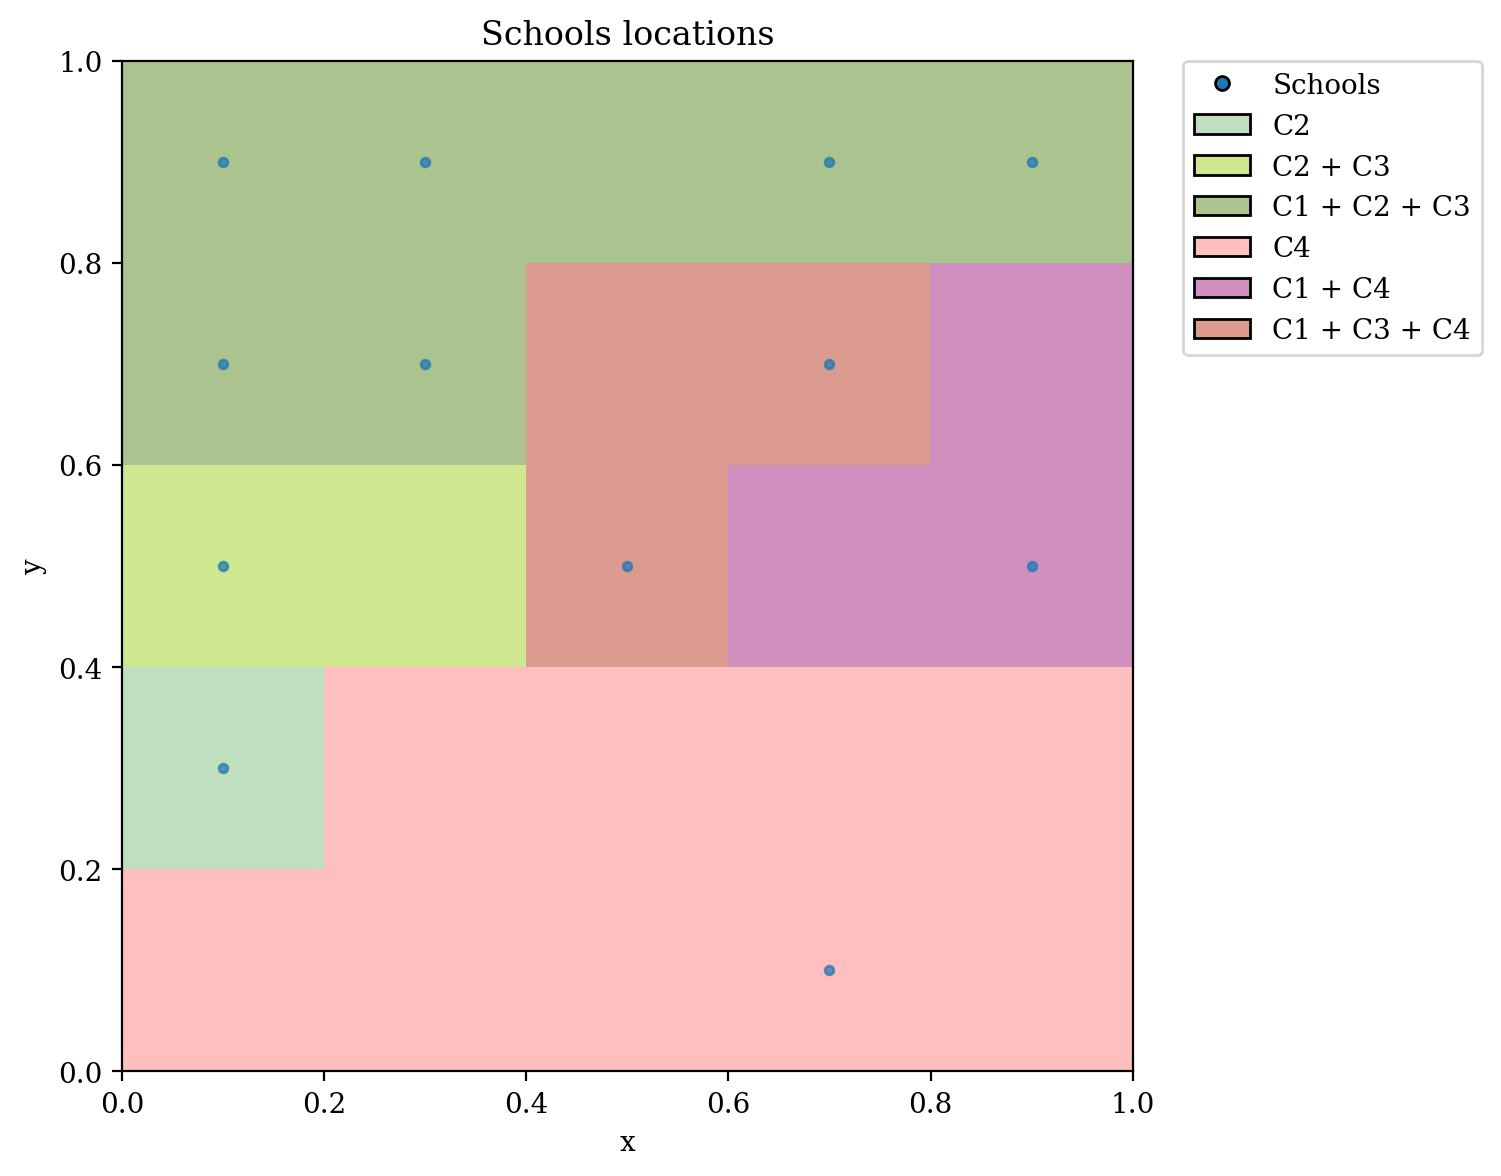
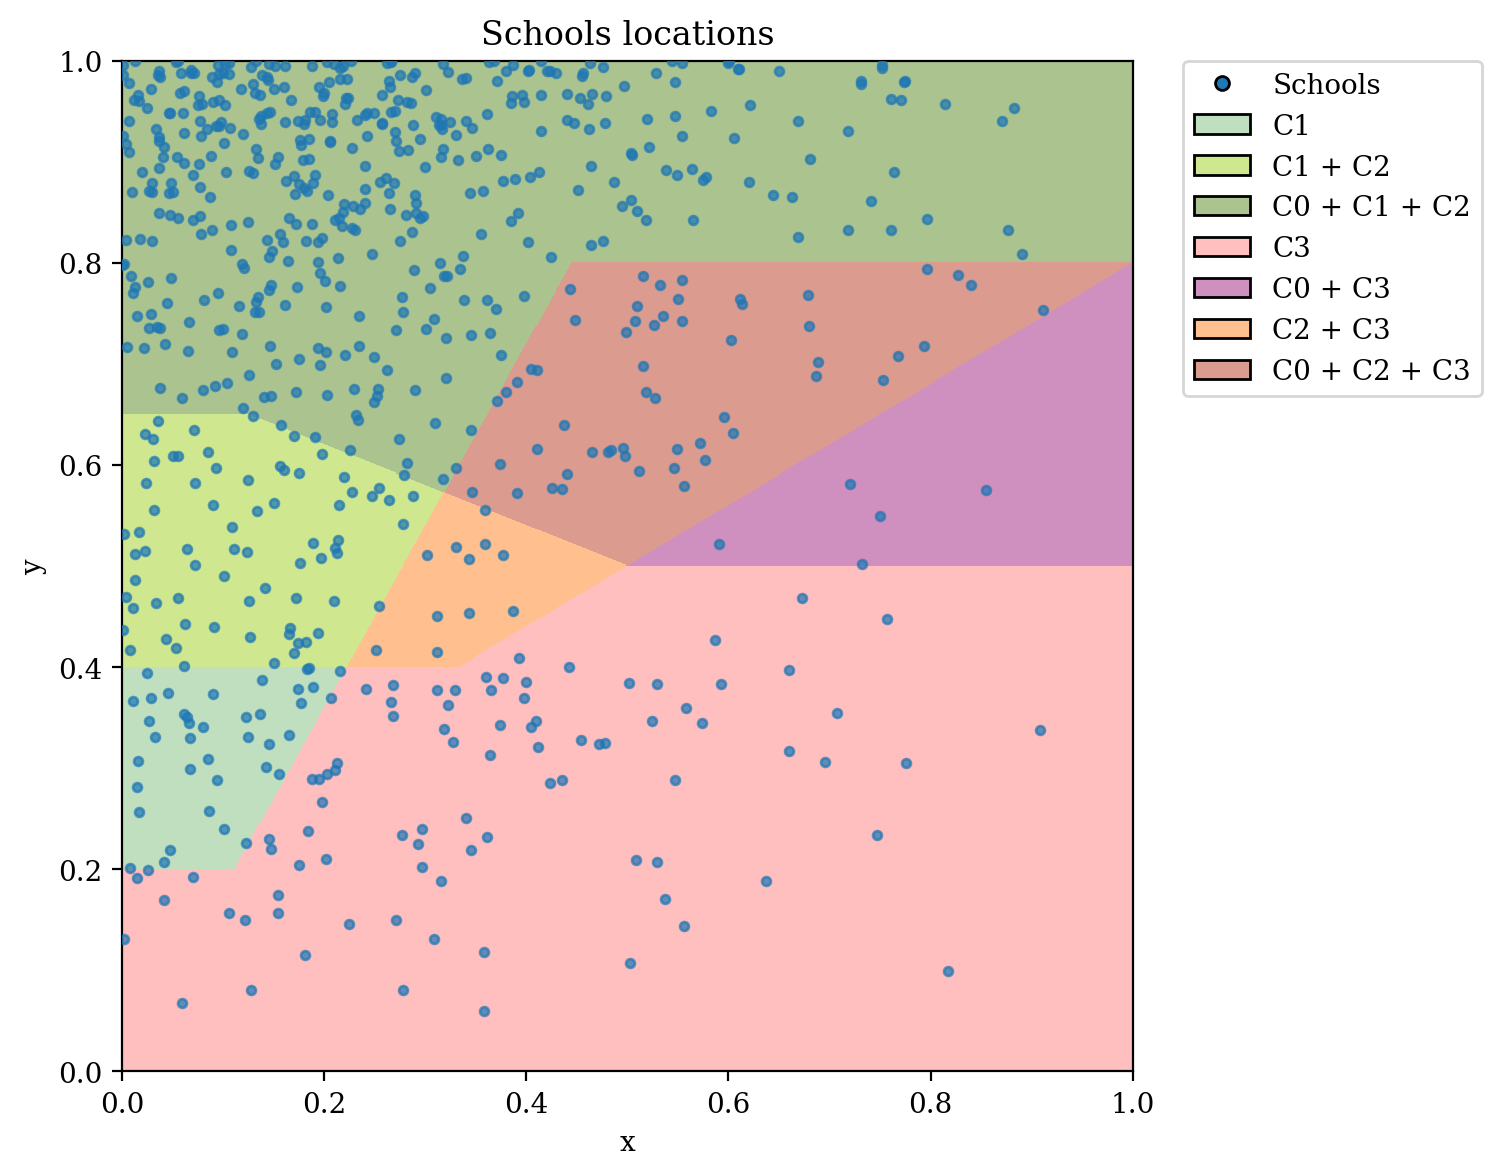
working modal solution

diff --git a/generate-data.py b/generate-data.py
@@ -1,12 +1,14 @@
 import numpy as np
+import csv
 import matplotlib.pyplot as plt
 import matplotlib.colors as mcolors
 from matplotlib.lines import Line2D
 from matplotlib.patches import Patch
+from pyscipopt import Model
 
 bg_rgb = np.array([1.0, 1.0, 1.0])
-schools_count = 12
-grid_size = 5
+schools_count = 709
+grid_size = 1000
 t = np.linspace(0, 1, grid_size)
 X, Y = np.meshgrid(t, t)
 
@@ -14,17 +16,21 @@ f1_grid = Y >= np.clip(0.7 - 0.4 * X, 0.50, 0.65)
 f2_grid = Y >= np.clip(0.0 + 1.8 * X, 0.2, 0.8)
 f3_grid = Y >= np.clip(0.2 + 0.6 * X, 0.4, 1.0)
 f4_grid = Y < np.clip(0.0 + 1.8 * X, 0.2, 0.8)
-firms_ids = ["C1", "C2", "C3", "C4"]
 firms_grids = [f1_grid, f2_grid, f3_grid, f4_grid]
+firms_count = len(firms_grids)
 firms_colors = ["blue", "green", "yellow", "red"]
-firms_cus = [[] for _ in range(len(firms_ids))]
+firms_cus = [[] for _ in range(firms_count)]
 
 # Generate random schools
 rng = np.random.default_rng(42)
-weights2 = np.exp(-0.25 * np.arange(grid_size))
-weights1 = np.exp(0.25 * np.arange(grid_size))
-p1 = weights1 / weights1.sum()
-p2 = weights2 / weights2.sum()
+centers = (np.arange(grid_size) + 0.5) / grid_size
+clip = lambda u: np.clip(u, 1e-9, 1 - 1e-9)
+beta_shape = lambda u, a, b: (clip(u) ** (a - 1.0)) * ((1.0 - clip(u)) ** (b - 1.0))
+gaussian = lambda u, mu, sigma: np.exp(-0.5 * ((u - mu) / sigma) ** 2)
+w1 = 0.8 * beta_shape(centers, 0.7, 2.2) + 0.2 * gaussian(centers, 0.70, 0.15)
+w2 = 0.8 * beta_shape(centers, 2.6, 1.0) + 0.2 * gaussian(centers, 0.85, 0.10)
+p1 = w1[::-1] / w1.sum()
+p2 = w2[::-1] / w2.sum()
 schools_grid = np.zeros((grid_size, grid_size), dtype=np.int32)
 chosen = rng.choice(
     grid_size * grid_size, size=schools_count, replace=False, p=np.outer(p1, p2).ravel()
@@ -38,26 +44,28 @@ for i, grid in enumerate(firms_grids):
     cus_grid |= grid.astype(np.uint8) << i
 cus = np.unique(cus_grid)
 cus = cus[cus > 0]
+cus_count = len(cus)
 cus_labels = np.zeros((int(cus.max()) + 1), dtype=object)
 cus_schools = np.zeros((int(cus.max()) + 1), dtype=object)
 cus_firms = np.zeros((int(cus.max()) + 1), dtype=object)
 cus_rgba = np.zeros((int(cus.max()) + 1, 3), dtype=float)
 cus_rgba[0] = bg_rgb
-for cu in cus:
+for cu_idx, cu in enumerate(cus):
     cu_grid = cus_grid == cu
     matching_schools_ids = schools_grid[cu_grid]
     matching_schools_ids = matching_schools_ids[matching_schools_ids > 0]
-    matching_firms_ids = np.array([i for i in range(len(firms_ids)) if (cu >> i) & 1])
+    matching_firms_ids = np.array([i for i in range(firms_count) if (cu >> i) & 1])
+    print("matching_firms_ids", matching_firms_ids)
     cus_schools[cu] = matching_schools_ids
-    cus_firms[cu] = matching_firms_ids + 1
+    cus_firms[cu] = matching_firms_ids
     for firm_id in matching_firms_ids:
-        firms_cus[firm_id].extend(matching_schools_ids)
+        firms_cus[firm_id].append(cu_idx)
     blended = bg_rgb.copy()
     for i in matching_firms_ids:
         color_rgb = np.asarray(mcolors.to_rgb(firms_colors[i]), dtype=float)
         blended = color_rgb * 0.25 + blended * 0.75
     cus_rgba[int(cu)] = blended
-    cus_labels[int(cu)] = " + ".join(firms_ids[i] for i in matching_firms_ids)
+    cus_labels[int(cu)] = " + ".join(f"C{i}" for i in matching_firms_ids)
 
 ############# Schools plot #############
 plt.rc("font", family="serif")
@@ -112,7 +120,9 @@ plt.close()
 
 ############# Firms plot #############
 fig, axes = plt.subplots(1, 4, figsize=(8, 2))
-for ax, name, color, grid in zip(axes, firms_ids, firms_colors, firms_grids):
+for ax, name, color, grid in zip(
+    axes, [f"C{i}" for i in range(firms_count)], firms_colors, firms_grids
+):
     ax.set_title(name, fontsize=8)
     ax.set_xlim(0, 1)
     ax.set_ylim(0, 1)
@@ -129,3 +139,82 @@ for ax, name, color, grid in zip(axes, firms_ids, firms_colors, firms_grids):
 plt.tight_layout()
 plt.savefig("firms.png", dpi=200, bbox_inches="tight")
 plt.close()
+
+############# Model resolution #############
+
+model = Model("Licitación")
+cus_labels = cus_labels[cus]
+cus_schools = cus_schools[cus]
+cus_firms = cus_firms[cus]
+quantity_intervals = [[0, 100], [100, 200], [200, 400], [400, 709]]
+quantity_intervals_count = len(quantity_intervals)
+company_price_per_interval = np.array(
+    [
+        [10, 10, 10, 10],
+        [800, 800, 800, 250],
+        [700, 500, 400, 300],
+        [10, 10, 10, 10],
+    ]
+)
+
+x = np.empty((firms_count, cus_count), dtype=object)
+y = np.empty((firms_count, quantity_intervals_count), dtype=object)
+z = np.empty((firms_count, quantity_intervals_count), dtype=object)
+
+for i in range(firms_count):
+    for j in firms_cus[i]:
+        x[i, j] = model.addVar(
+            name=f"Número de escuelas asignadas a la empresa {i} en la unidad de competencia {cus_labels[j]}",
+            vtype="integer",
+        )
+
+for i in range(firms_count):
+    for t in range(quantity_intervals_count):
+        y[i, t] = model.addVar(
+            name=f"A la empresa {i} se le asigna el intervalo {quantity_intervals[t]}",
+            vtype="binary",
+        )
+        z[i, t] = model.addVar(
+            name=f"Número de escuelas asignadas a la empresa {i} en el intervalo {quantity_intervals[t]}",
+            vtype="integer",
+        )
+
+model.setObjective(
+    sum(
+        z[i, t] * company_price_per_interval[i, t]
+        for i in range(firms_count)
+        for t in range(quantity_intervals_count)
+    ),
+    "minimize",
+)
+
+for j in range(cus_count):
+    model.addCons(sum(x[i, j] for i in cus_firms[j]) == len(cus_schools[j]))
+
+for i in range(firms_count):
+    for t in range(quantity_intervals_count):
+        model.addCons(
+            sum(x[i, j] for j in firms_cus[i])
+            >= quantity_intervals[t][0] - schools_count * (1 - y[i, t])
+        )
+        model.addCons(
+            sum(x[i, j] for j in firms_cus[i])
+            <= quantity_intervals[t][1] + schools_count * (1 - y[i, t])
+        )
+        model.addCons(
+            sum(x[i, j] for j in firms_cus[i])
+            <= z[i, t] + schools_count * (1 - y[i, t])
+        )
+
+for i in range(firms_count):
+    model.addCons(sum(y[i, t] for t in range(quantity_intervals_count)) == 1)
+
+model.optimize()
+
+solution = model.getBestSol()
+
+for i in range(firms_count):
+    for j in firms_cus[i]:
+        print(
+            f"{x[i, j].name} with prices {company_price_per_interval[i]} = {solution[x[i, j]]}"
+        )
